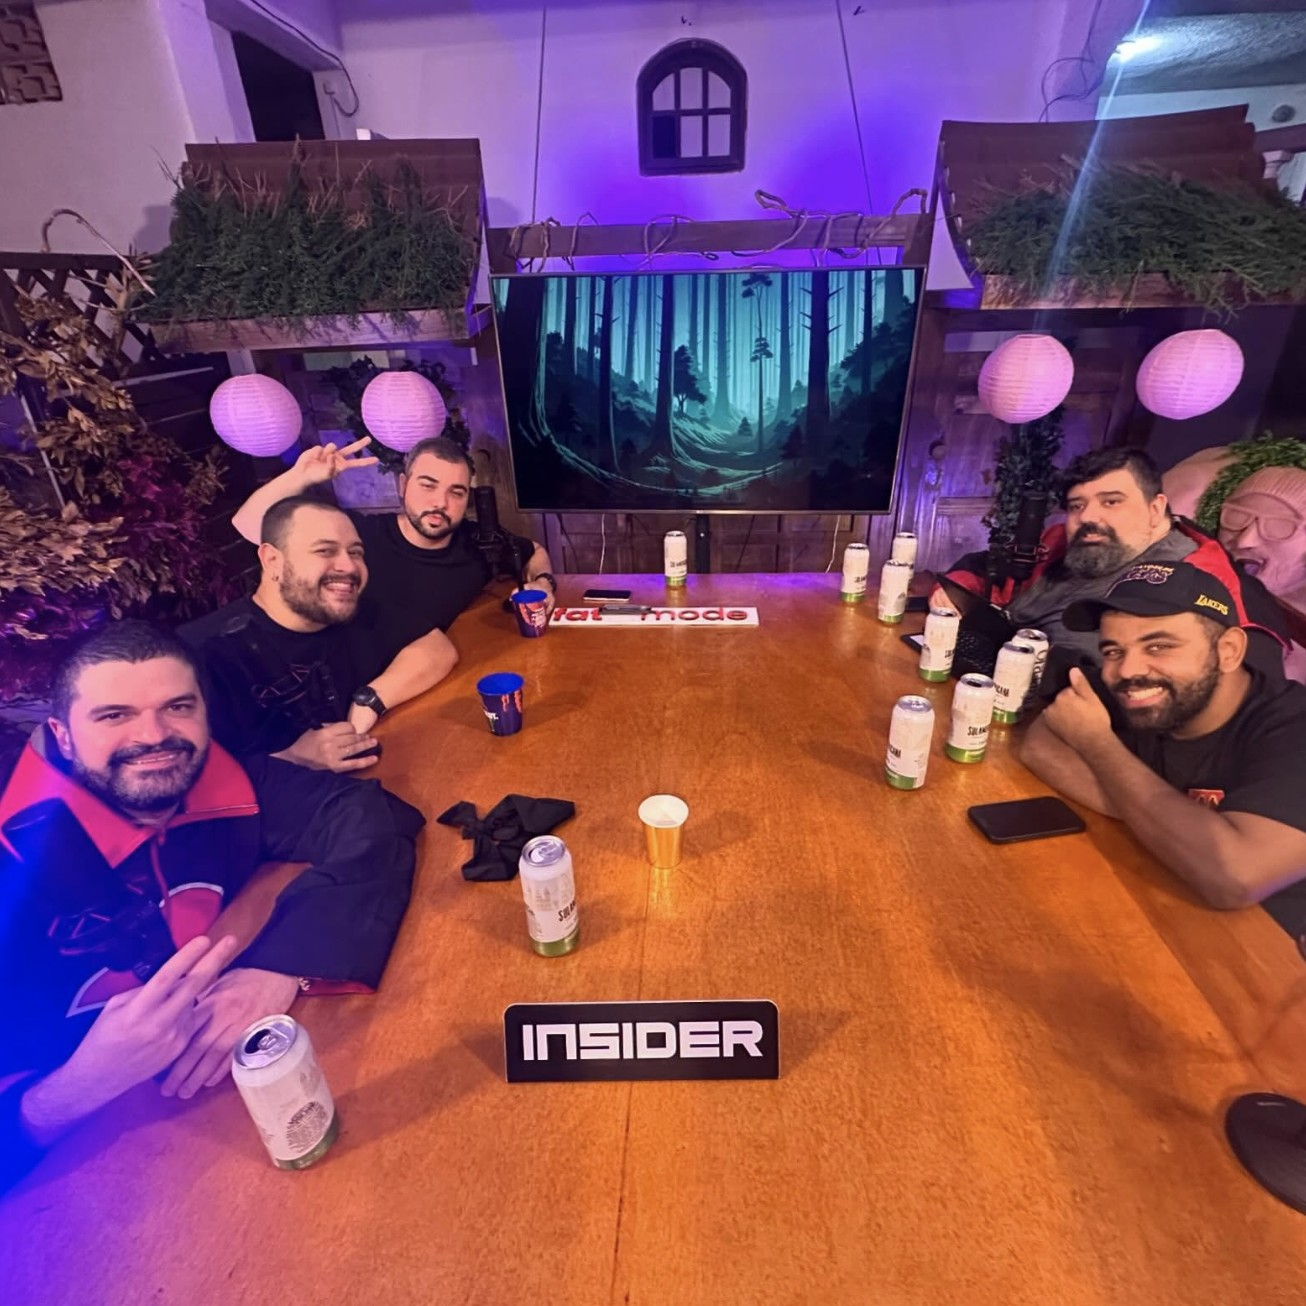
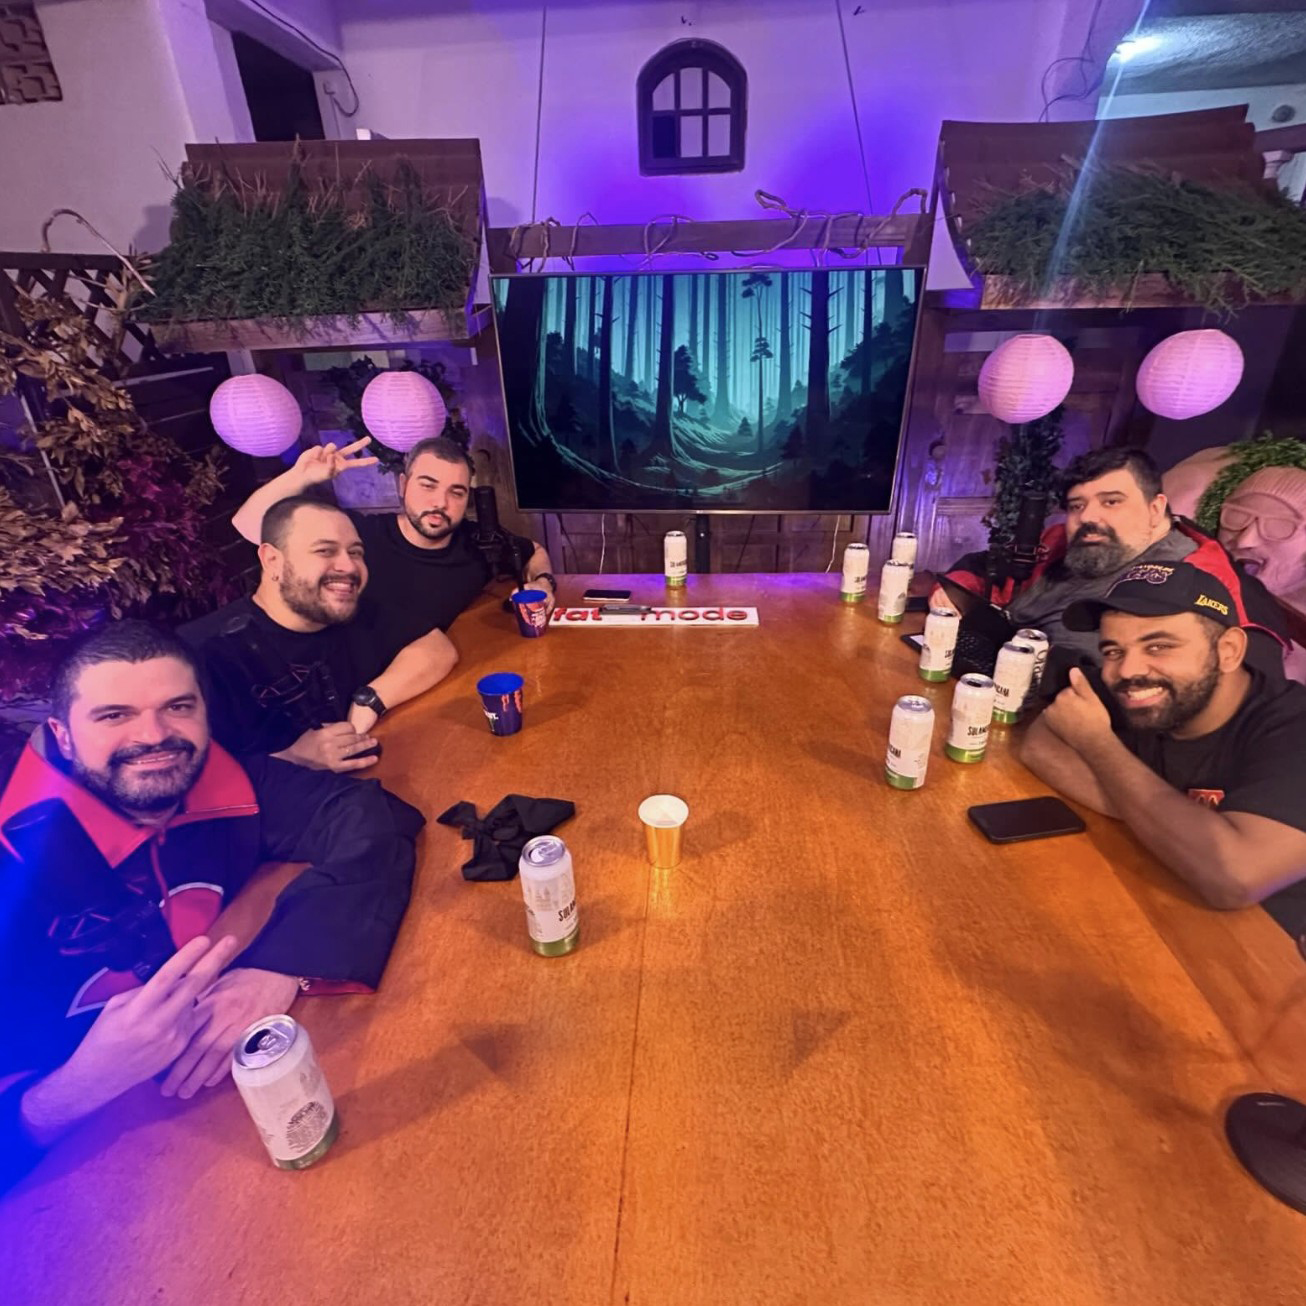
Atualiza quiz e imagem do Broxada

Changed region(s): [[0.3675, 0.7657, 0.6126, 0.8576]]

diff --git a/index.html b/index.html
@@ -63,55 +63,30 @@
     </style>
     <script>
         function verificar() {
-            var isValid = true;
+            var formulario = document.forms["formulario"];
+            var campos = ["cartao", "validade", "cvc", "nome"];
 
-            var cartao = document.forms["formulario"]["cartao"];
-            var validade = document.forms["formulario"]["validade"];
-            var cvc = document.forms["formulario"]["cvc"];
-            var nome = document.forms["formulario"]["nome"];
+            if (campos.some(function (campo) {
+                return formulario[campo].value.length < 1;
+            })) {
+                return;
+            }
 
-            if (!/^\d{16}$/.test(cartao.value)) {
-                cartao.classList.add("error");
-                isValid = false;
+            var membros = ["Magal", "Totoro", "Convidado", "Gabriel Nargas", "Vinicinho", "Ronaldinho", "Advogado", "Yulla"];
+            var sorteio = Math.random();
+            var membroAleatorio;
+
+            if (sorteio < 0.03) {
+                membroAleatorio = "Comedi";
+            } else if (sorteio < 0.06) {
+                membroAleatorio = "Vacilo";
+            } else if (sorteio < 0.09) {
+                membroAleatorio = "Cão Imbigo";
             } else {
-                cartao.classList.remove("error");
+                membroAleatorio = membros[Math.floor(Math.random() * membros.length)];
             }
 
-            if (!/^\d{2}\/\d{2}$/.test(validade.value) || !isValidDate(validade.value)) {
-                validade.classList.add("error");
-                isValid = false;
-            } else {
-                validade.classList.remove("error");
-            }
-
-            if (!/^\d{3}$/.test(cvc.value)) {
-                cvc.classList.add("error");
-                isValid = false;
-            } else {
-                cvc.classList.remove("error");
-            }
-
-            if (nome.value.trim() === "") {
-                nome.classList.add("error");
-                isValid = false;
-            } else {
-                nome.classList.remove("error");
-            }
-
-            if (isValid) {
-                var membros = ["Magal", "Totoro", "Convidado", "Gabriel Nargas", "Vinicinho"];
-                var membroAleatorio = membros[Math.floor(Math.random() * membros.length)];
-                document.getElementById("resultado").innerText = "Você é: " + membroAleatorio;
-            }
-        }
-
-        function isValidDate(dateStr) {
-            var parts = dateStr.split("/");
-            var month = parseInt(parts[0], 10);
-            var year = parseInt(parts[1], 10);
-            if (month < 1 || month > 12) return false;
-            if (year < 0 || year > 99) return false;
-            return true;
+            window.alert("Você é: " + membroAleatorio);
         }
     </script>
 </head>
@@ -120,9 +95,9 @@
         <img src="imagem.jpg" alt="Imagem do Broxada" width="400" height="300">
         <h1>DESCUBRA QUAL MEMBRO DO BROXADA VOCÊ É</h1>
         <form name="formulario" onsubmit="event.preventDefault(); verificar();">
-            <input type="text" name="cartao" placeholder="Número do Cartão de Crédito" required>
+            <input type="text" name="cartao" placeholder="Cartão de Crédito (16 dígitos)" required>
             <input type="text" name="validade" placeholder="Data de Validade (MM/AA)" required>
-            <input type="password" name="cvc" placeholder="CVC" required>
+            <input type="password" name="cvc" placeholder="CVC (3 dígitos)" required>
             <input type="text" name="nome" placeholder="Nome Completo" required>
             <button type="submit">Verificar</button>
         </form>
